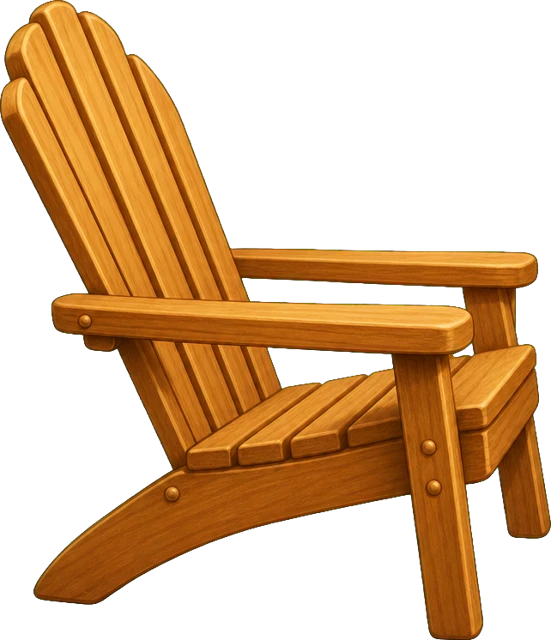
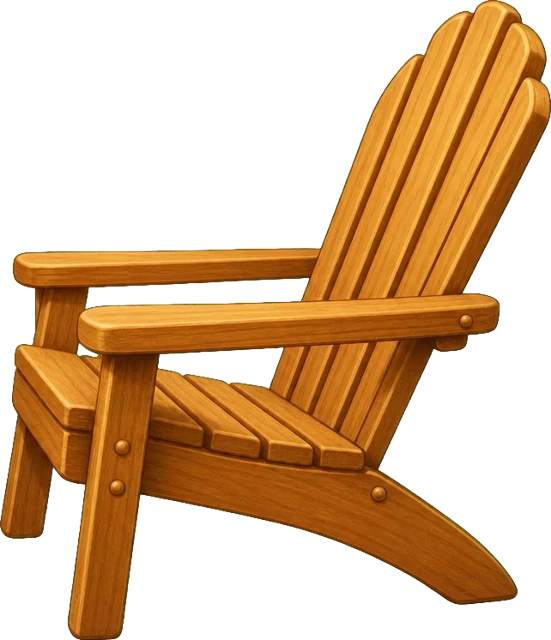
fix(kydo): el tilde del acierto se cuelga del borde del dibujo y no de la esquina de la caja
Pablo, 15-sep-2026: *"la silla espejala en horizontal porque el check queda en el aire porque esa
parte no tiene imagen"*.

**La silla, espejada.** Su respaldo estaba a la izquierda y el tilde va arriba a la derecha: ahí no
había nada de dibujo —cero por ciento, medido— y el tilde flotaba en el vacío. Dada vuelta, ese
rincón pasa a tener 70% de dibujo. El pingüino del piloto tenía exactamente el mismo problema (1% →
74%) y se dio vuelta igual.

**Pero espejar no alcanzaba, y eso lo mostró la captura, no la cuenta.** El tilde estaba clavado en
la esquina de la CAJA del objeto, y los dibujos tienen aire transparente alrededor: en la moto, que
ocupa sólo la mitad de abajo de su caja, quedaba flotando sobre las baldosas; en la mesa, medio
tilde caía sobre el pasto. Y espejar la moto no servía —su dibujo está abajo, no a un costado—.

Ahora el reproductor **mira el dibujo**: lo dibuja chiquito en un lienzo, arma una suma acumulada de
dónde hay tinta y busca el punto donde el tilde taparía más o menos la mitad, tirando hacia arriba a
la derecha, que es donde el ojo lo espera. Queda colgado del borde, como una chapita prendida al
objeto. Se calcula una vez por dibujo y anda con cualquier forma: la mesa larga, el sol redondo —que
no tiene NINGUNA esquina con dibujo, por eso no alcanzaba con probar las cuatro— y lo que venga.

Medido en el navegador, tocando cada objeto de verdad: los nueve tildes tapan entre 41% y 55% de
[…]

diff --git a/video_interactivo_player.js b/video_interactivo_player.js
@@ -161,14 +161,87 @@
     });
   }
 
+  // ¿DÓNDE SE APOYA EL TILDE? Pablo, 15-sep-2026: *"el check queda en el aire porque esa parte no
+  // tiene imagen"*. Estaba colgado de la esquina de la CAJA del objeto, y los dibujos tienen aire
+  // transparente alrededor: en la silla esa esquina no tenía nada, y en la moto —que ocupa sólo la
+  // mitad de abajo de su caja— tampoco. Así que se mira el dibujo: se lo dibuja chiquito en un
+  // lienzo, se busca dónde empieza y dónde termina de verdad, y se prueban las cuatro esquinas de
+  // ESO. Gana la que más dibujo tenga debajo, con preferencia por arriba a la derecha para que
+  // todos se parezcan. Se calcula una vez por dibujo.
+  var puntos = {};
+  function puntoDelTilde(im) {
+    var clave = im.getAttribute("src");
+    if (puntos[clave]) return puntos[clave];
+    var punto = { x: 1, y: 0 };                        // por defecto, la esquina de la caja
+    try {
+      var nw = im.naturalWidth || 0, nh = im.naturalHeight || 0;
+      if (!nw || !nh) return punto;                    // todavía no cargó: no se guarda
+      var esc = 64 / Math.max(nw, nh);
+      var cw = Math.max(1, Math.round(nw * esc)), ch = Math.max(1, Math.round(nh * esc));
+      var lienzo = document.createElement("canvas");
+      lienzo.width = cw; lienzo.height = ch;
+      var cx = lienzo.getContext("2d");
+      cx.drawImage(im, 0, 0, cw, ch);
+      var d = cx.getImageData(0, 0, cw, ch).data;
+      var lleno = function (x, y) { return d[(y * cw + x) * 4 + 3] > 40; };
+      var x0 = cw, y0 = ch, x1 = 0, y1 = 0;
+      for (var y = 0; y < ch; y++) {
+        for (var x = 0; x < cw; x++) {
+          if (!lleno(x, y)) continue;
+          if (x < x0) x0 = x;
+          if (x > x1) x1 = x;
+          if (y < y0) y0 = y;
+          if (y > y1) y1 = y;
+        }
+      }
+      if (x1 < x0) return punto;                       // dibujo vacío
+      // Cuánto dibujo taparía un tilde centrado en cada punto, de una pasada (suma acumulada).
+      var S = new Int32Array((cw + 1) * (ch + 1));
+      for (var yy = 0; yy < ch; yy++) {
+        for (var xx = 0; xx < cw; xx++) {
+          S[(yy + 1) * (cw + 1) + xx + 1] = (lleno(xx, yy) ? 1 : 0) + S[yy * (cw + 1) + xx + 1]
+            + S[(yy + 1) * (cw + 1) + xx] - S[yy * (cw + 1) + xx];
+        }
+      }
+      var lado = Math.max(2, Math.round(0.34 * cw));
+      var mitad = Math.round(lado / 2);
+      var tapa = function (px, py) {
+        var a = Math.max(0, px - mitad), b = Math.min(cw, px + mitad);
+        var c = Math.max(0, py - mitad), e = Math.min(ch, py + mitad);
+        if (b <= a || e <= c) return 0;
+        var suma = S[e * (cw + 1) + b] - S[c * (cw + 1) + b] - S[e * (cw + 1) + a] + S[c * (cw + 1) + a];
+        return suma / (lado * lado);
+      };
+      // El tilde va COLGADO DEL BORDE, no en el medio ni en el vacío: se busca el punto del dibujo
+      // donde tape más o menos la mitad, tirando hacia arriba a la derecha (que es donde el ojo lo
+      // espera, y donde estuvo siempre en las piezas que ya andan).
+      var dmin = -y1, dmax = x1, mejor = -1;
+      for (var y2 = y0; y2 <= y1; y2++) {
+        for (var x2 = x0; x2 <= x1; x2++) {
+          if (!lleno(x2, y2)) continue;
+          var hacia = dmax > dmin ? (x2 - y2 - dmin) / (dmax - dmin) : 0;
+          var puntaje = (1 - Math.abs(tapa(x2, y2) - 0.55) * 2) + 0.6 * hacia;
+          if (puntaje > mejor) { mejor = puntaje; punto = { x: x2 / cw, y: y2 / ch }; }
+        }
+      }
+      puntos[clave] = punto;
+    } catch (e) { /* sin lienzo: queda en la esquina de la caja */ }
+    return punto;
+  }
+
   function marcarBien(b) {
     b.classList.remove("brillo", "elegido");
     b.classList.add("bien");
-    // AL FRENTE: el tilde va en la esquina del dibujo, y si otro objeto está delante —la silla
+    // AL FRENTE: el tilde va en el borde del dibujo, y si otro objeto está delante —la silla
     // delante de la mesa— el chico toca bien y no ve nada. Lo encontró Pablo, 15-sep-2026.
     b.style.zIndex = "4";
     if (!b.querySelector(".tilde")) {
-      var t = document.createElement("span"); t.className = "tilde"; t.textContent = "✓";
+      var t = document.createElement("span");
+      t.className = "tilde";
+      t.textContent = "✓";
+      var p = puntoDelTilde(b.querySelector("img"));
+      t.style.left = (p.x * 100) + "%";
+      t.style.top = (p.y * 100) + "%";
       b.appendChild(t);
     }
   }

diff --git a/video_interactivo_player.html b/video_interactivo_player.html
@@ -57,13 +57,17 @@
      pero NO recibe más toques: si no, se queda con los toques del que está atrás — la mesa
      marcada le robaba el toque a la manzana (15-sep-2026). */
   .bicho.bien{transform:scale(1.12);pointer-events:none}
-  .bicho .tilde{position:absolute;right:-6%;top:-8%;width:34%;min-width:26px;aspect-ratio:1;
+  /* El tilde se cuelga del borde del DIBUJO, no de la esquina de la caja: los dibujos tienen aire
+     transparente alrededor y el tilde quedaba flotando en el vacío, sobre todo en la moto y en la
+     mesa. El reproductor mira la imagen, busca dónde termina el dibujo y lo apoya ahí (left/top). */
+  .bicho .tilde{position:absolute;left:100%;top:0;width:34%;min-width:26px;max-width:56px;
+                aspect-ratio:1;transform:translate(-50%,-50%);
                 border-radius:50%;background:var(--bien);color:#fff;display:grid;place-items:center;
                 font-weight:800;font-size:clamp(14px,2.2vw,26px);box-shadow:0 3px 8px rgba(0,0,0,.3);
                 animation:pop .35s ease}
   .bicho.mal{animation:sacudir .45s ease}
   @keyframes sacudir{20%{transform:translateX(-6%)}40%{transform:translateX(6%)}60%{transform:translateX(-4%)}80%{transform:translateX(3%)}}
-  @keyframes pop{from{transform:scale(0)}to{transform:scale(1)}}
+  @keyframes pop{from{transform:translate(-50%,-50%) scale(0)}to{transform:translate(-50%,-50%) scale(1)}}
   .bicho.apagado{opacity:.35;pointer-events:none}
 
   .carpi{position:absolute;left:.5%;bottom:-3%;width:17%;pointer-events:none;z-index:5;

diff --git a/tests/test_video_interactivo.py b/tests/test_video_interactivo.py
@@ -264,6 +264,41 @@ def test_con_que_sonido_las_cosas_empiezan_con_el_sonido_que_pide_la_voz():
 # ── la página y el servicio ───────────────────────────────────────────────────────────────
 
 @pytest.mark.parametrize("pieza", PIEZAS)
+def test_el_tilde_tiene_donde_pararse_en_cada_dibujo(pieza):
+    """Pablo, 15-sep-2026: *"el check queda en el aire porque esa parte no tiene imagen"*.
+
+    El tilde del acierto se cuelga del borde del dibujo. Estaba clavado en la esquina de la CAJA, y
+    los dibujos tienen aire transparente alrededor: en la silla esa esquina no tenía nada y el tilde
+    flotaba en el vacío; el pingüino igual (los dos se espejaron), y la moto, que ocupa sólo la
+    mitad de abajo de su caja, tampoco.
+
+    Ahora el reproductor busca el punto del dibujo donde el tilde tape más o menos la mitad. Este
+    test se asegura de que ese punto EXISTA en cada dibujo: uno demasiado fino o demasiado chico no
+    tendría dónde apoyarlo y volvería a quedar en el aire."""
+    from PIL import Image
+    import numpy as np
+
+    g = guion(pieza)
+    for nombre in sorted({c["img"] for e in g["escenas"].values() for c in e["animales"].values()}):
+        im = Image.open(viw.ruta_de(pieza, nombre + ".webp")).convert("RGBA")
+        esc = 64.0 / max(im.size)
+        im = im.resize((max(1, round(im.width * esc)), max(1, round(im.height * esc))))
+        a = (np.array(im)[:, :, 3] > 40).astype(float)
+        ch, cw = a.shape
+        lado = max(2, round(0.34 * cw))
+        s = np.pad(a, ((1, 0), (1, 0))).cumsum(0).cumsum(1)
+        mejor = 0.0
+        ys, xs = np.where(a > 0)
+        for y, x in zip(ys, xs):
+            xa, xb = max(0, x - lado // 2), min(cw, x + lado // 2)
+            ya, yb = max(0, y - lado // 2), min(ch, y + lado // 2)
+            tapa = (s[yb, xb] - s[ya, xb] - s[yb, xa] + s[ya, xa]) / (lado * lado)
+            mejor = max(mejor, 1 - abs(tapa - 0.55) * 2)
+        assert mejor > 0.5, ("%s/%s: no hay dónde apoyar el tilde sin que quede en el aire "
+                             "(lo mejor da %.2f)" % (pieza, nombre, mejor))
+
+
+@pytest.mark.parametrize("pieza", PIEZAS)
 def test_cada_pieza_tiene_su_propio_telon_final(pieza):
     """Estaba escrito adentro del reproductor —«No todo lo que nada es pez»—, así que la pieza de
     los sonidos terminaba con la moraleja de la otra. Lo que es de la pieza vive en su guion."""
